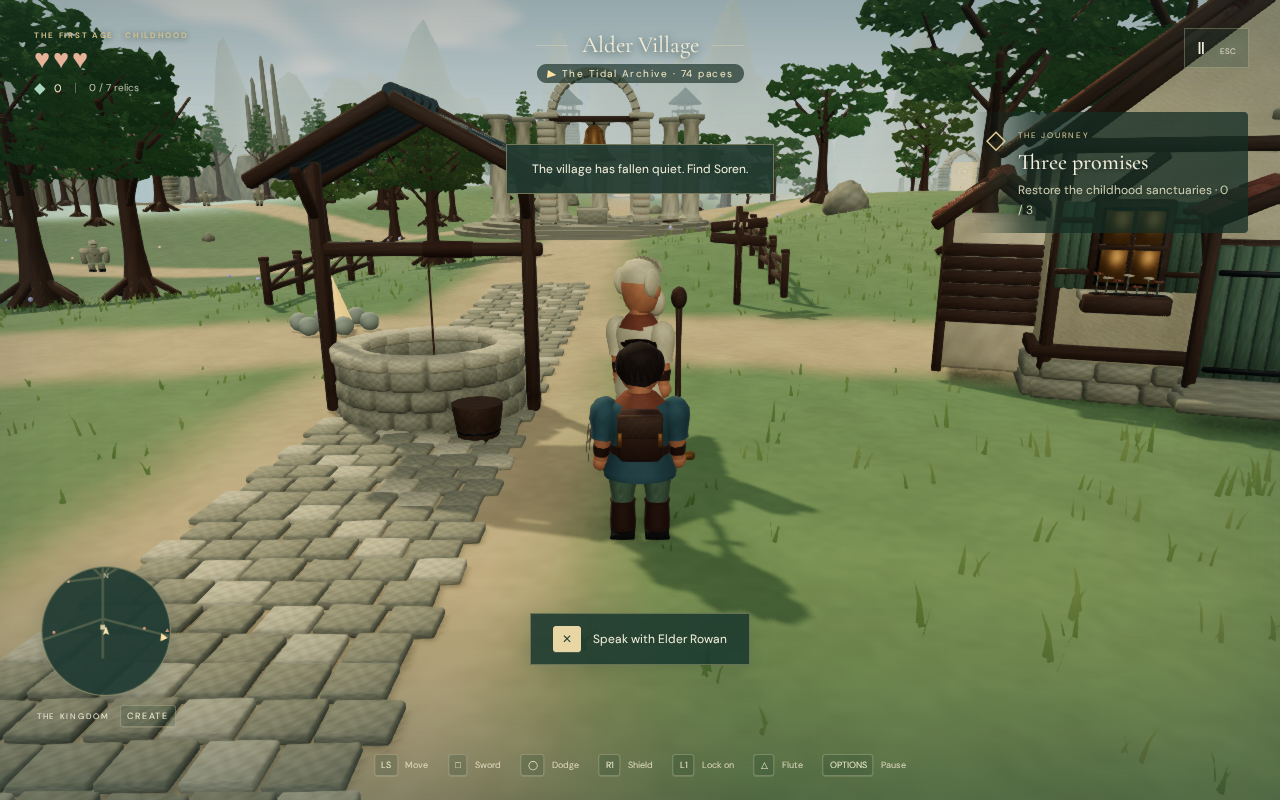
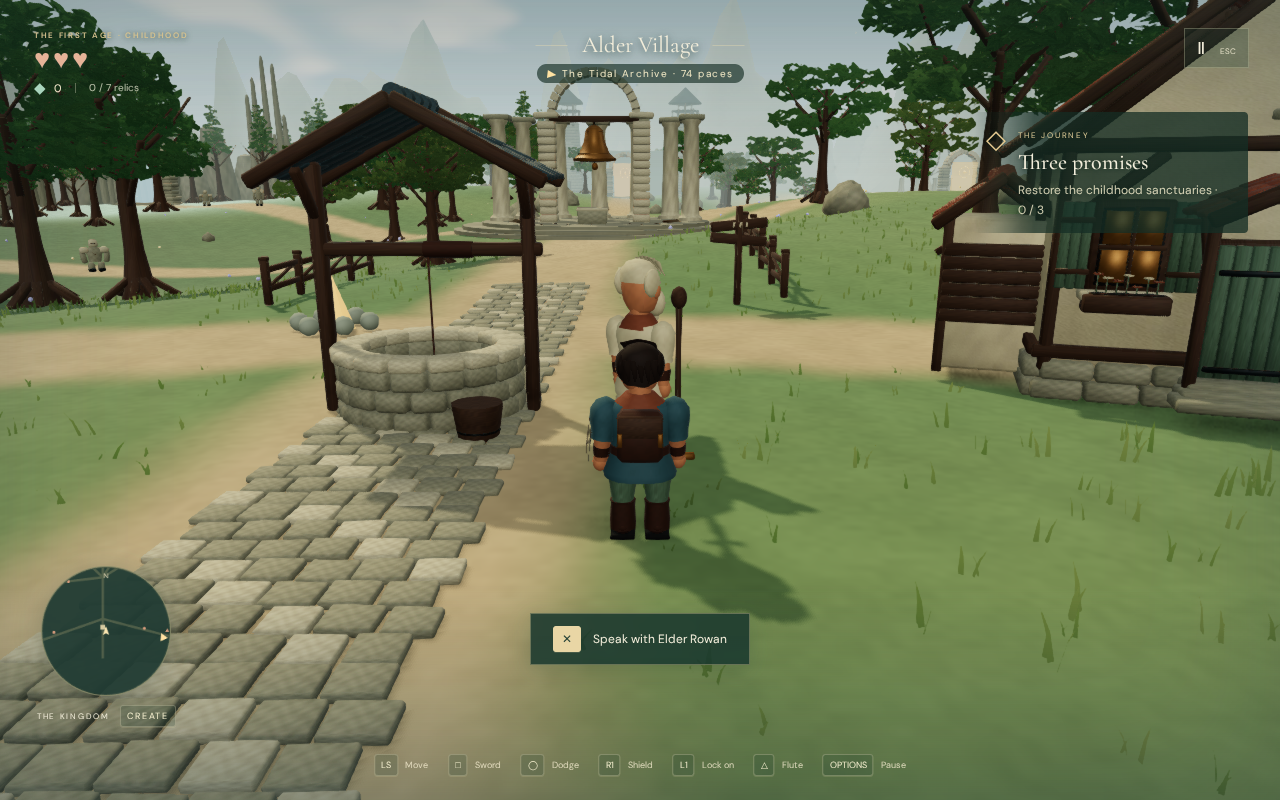
Keep objective counts such as "0 / 3" on one line

diff --git a/src/ui.ts b/src/ui.ts
@@ -246,7 +246,10 @@ export class UI {
     this.el("quest-title").textContent = dungeonHint
       ? "The sanctuary trial"
       : q.title;
-    this.el("quest-detail").textContent = this.say(dungeonHint || q.detail);
+    // Counts such as "0 / 3" never break across lines.
+    this.el("quest-detail").textContent = this.say(
+      dungeonHint || q.detail,
+    ).replace(/(\d) \/ (\d)/g, "$1\u00a0/\u00a0$2");
   }
   private lastPrompt = "";
   prompt(text: string) {
